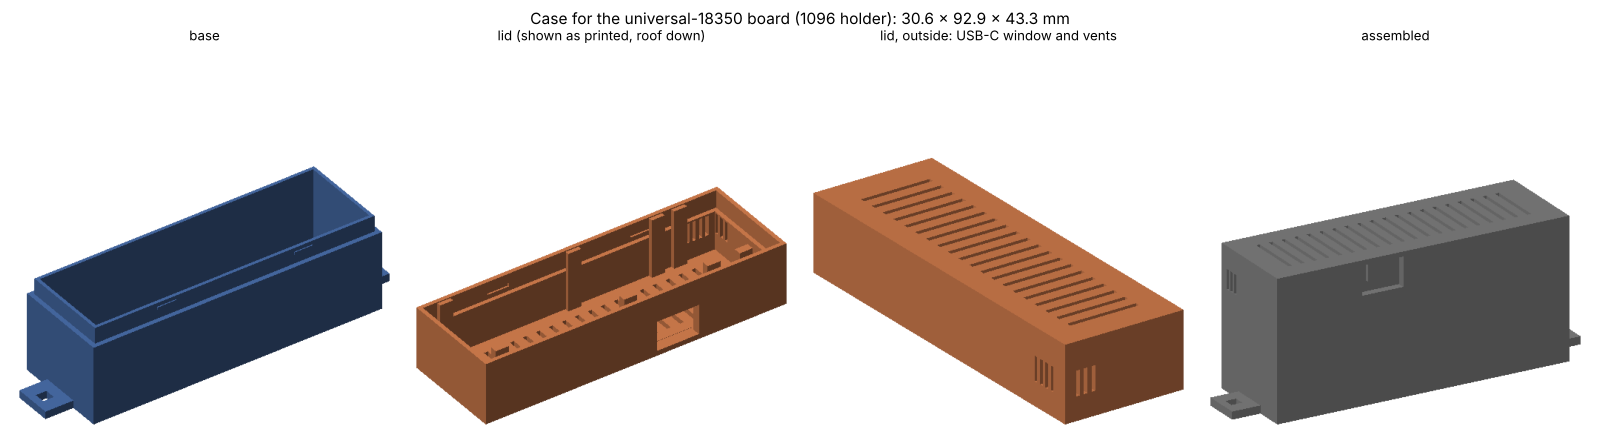
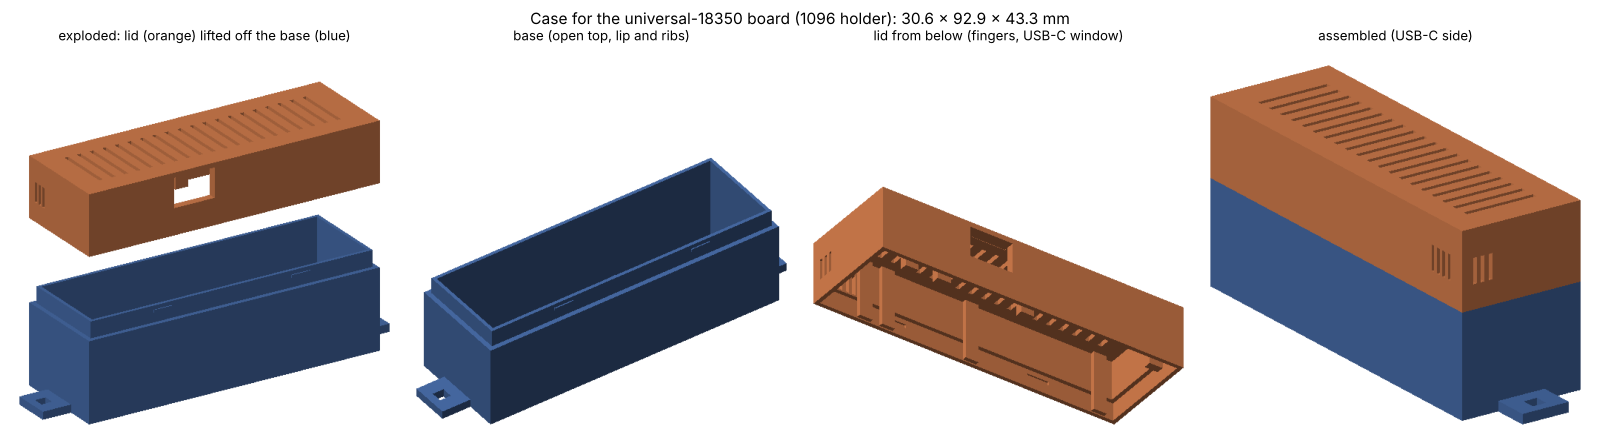
Case images: all four cases with the lid lifted off the base
cases-overview.png shows the 18350, 18650, 21700 and universal cases at
one scale, each with the lid above its base and a gap between them.
Per-case previews now open with an exploded view (lid above base), then
the base, the lid from below and the assembled case, in two colours.

Claude-Session: https://claude.ai/code/session_01XYnVL1FYSQQSzAWwnejohZ

diff --git a/tools/make_case.py b/tools/make_case.py
@@ -346,27 +346,31 @@ def check(base, lid, info):
 
 
 # ---------------------------------------------------------------- previews
-def raster(tris, size=520, elev=28, azim=-55, color=(0.30, 0.45, 0.70)):
-    """Tiny z-buffer renderer: orthographic view, flat shading. Returns an RGB array."""
-    T = np.array(tris, dtype=float)
+def raster(groups, size=520, elev=28, azim=-55, scale=None, height=None):
+    """Tiny z-buffer renderer: orthographic view, flat shading. groups = [(tris, rgb), ...]."""
+    T = np.concatenate([np.array(t, dtype=float) for t, _ in groups])
+    tcol = np.concatenate([np.tile(np.array(c, dtype=float), (len(t), 1)) for t, c in groups])
     a, e = math.radians(azim), math.radians(elev)
     Rz = np.array([[math.cos(a), -math.sin(a), 0], [math.sin(a), math.cos(a), 0], [0, 0, 1]])
     Rx = np.array([[1, 0, 0], [0, math.cos(e - math.pi / 2), -math.sin(e - math.pi / 2)],
                    [0, math.sin(e - math.pi / 2), math.cos(e - math.pi / 2)]])
     V = T.reshape(-1, 3) @ Rz.T @ Rx.T
-    mn, mx = V.min(0), V.max(0); sc = (size - 20) / max(mx[0] - mn[0], mx[1] - mn[1])
-    P = np.empty_like(V); P[:, 0] = (V[:, 0] - mn[0]) * sc + 10; P[:, 1] = size - ((V[:, 1] - mn[1]) * sc + 10); P[:, 2] = V[:, 2]
+    mn, mx = V.min(0), V.max(0)
+    W = size; Hh = height or size
+    sc = scale or (min(W, Hh) - 20) / max(mx[0] - mn[0], mx[1] - mn[1])
+    ox = (W - (mx[0] - mn[0]) * sc) / 2; oy = 10        # centred horizontally, bottom-aligned
+    P = np.empty_like(V); P[:, 0] = (V[:, 0] - mn[0]) * sc + ox; P[:, 1] = Hh - ((V[:, 1] - mn[1]) * sc + oy); P[:, 2] = V[:, 2]
     P = P.reshape(-1, 3, 3)
     N = np.cross(T[:, 1] - T[:, 0], T[:, 2] - T[:, 0]); N /= np.linalg.norm(N, axis=1)[:, None] + 1e-12
     Nv = N @ Rz.T @ Rx.T
     light = np.array([-0.35, 0.45, 0.82]); light /= np.linalg.norm(light)
     shade = np.clip(Nv @ light, 0, 1) * 0.7 + 0.3
-    img = np.ones((size, size, 3)); zb = np.full((size, size), -1e9)
+    img = np.ones((Hh, W, 3)); zb = np.full((Hh, W), -1e9)
     for t, (p0, p1, p2) in enumerate(P):
         if Nv[t, 2] <= 0:      # back-face culling
             continue
-        x0, x1 = int(max(min(p0[0], p1[0], p2[0]), 0)), int(min(max(p0[0], p1[0], p2[0]) + 1, size))
-        y0, y1 = int(max(min(p0[1], p1[1], p2[1]), 0)), int(min(max(p0[1], p1[1], p2[1]) + 1, size))
+        x0, x1 = int(max(min(p0[0], p1[0], p2[0]), 0)), int(min(max(p0[0], p1[0], p2[0]) + 1, W))
+        y0, y1 = int(max(min(p0[1], p1[1], p2[1]), 0)), int(min(max(p0[1], p1[1], p2[1]) + 1, Hh))
         if x1 <= x0 or y1 <= y0:
             continue
         xs, ys = np.meshgrid(np.arange(x0, x1) + 0.5, np.arange(y0, y1) + 0.5)
@@ -380,7 +384,7 @@ def raster(tris, size=520, elev=28, azim=-55, color=(0.30, 0.45, 0.70)):
         z = w0 * p0[2] + w1 * p1[2] + w2 * p2[2]
         sub = zb[y0:y1, x0:x1]; m &= z > sub
         sub[m] = z[m]
-        img[y0:y1, x0:x1][m] = np.array(color) * shade[t]
+        img[y0:y1, x0:x1][m] = tcol[t] * shade[t]
     return img
 
 
@@ -424,8 +428,9 @@ def render(path, parts, title):
     import matplotlib; matplotlib.use('Agg')
     import matplotlib.pyplot as plt
     fig, axs = plt.subplots(1, len(parts), figsize=(5 * len(parts), 5.6))
-    for ax, (label, tris, col, view) in zip(axs, parts):
-        ax.imshow(raster(tris, color=matplotlib.colors.to_rgb(col), **view)); ax.axis('off'); ax.set_title(label, fontsize=12)
+    for ax, (label, groups, view) in zip(axs, parts):
+        g = [(t, matplotlib.colors.to_rgb(c)) for t, c in groups]
+        ax.imshow(raster(g, **view)); ax.axis('off'); ax.set_title(label, fontsize=12)
     fig.suptitle(title, fontsize=14); plt.tight_layout(); plt.savefig(path, dpi=80); plt.close(fig)
 
 
@@ -450,6 +455,7 @@ def main():
     os.makedirs(os.path.join(ROOT, 'case', 'stl'), exist_ok=True)
     os.makedirs(os.path.join(ROOT, 'case', 'images'), exist_ok=True)
     report = []
+    overview = []
     lids_done = {}
     for name, board, holder in CASES:
         base, lid, info = build(name, board, holder)
@@ -467,21 +473,55 @@ def main():
             lids_done[lid_name] = True
         # preview: base, lid as printed, assembled
         asm_b = to_case_frame(bt, info); asm_l = to_case_frame(lt, info)
+        lift = 25.0
+        exploded_lid = [tuple((x, y, z + lift) for (x, y, z) in t) for t in asm_l]
+        B, L = '#4c72b0', '#dd8452'
         render(os.path.join(ROOT, 'case', 'images', 'case-%s.png' % name),
-               [('base', bstl, '#4c72b0', dict(elev=35, azim=-55)),
-                ('lid (shown as printed, roof down)', lstl, '#dd8452', dict(elev=35, azim=-55)),
-                ('lid, outside: USB-C window and vents', asm_l, '#dd8452', dict(elev=25, azim=35)),
-                ('assembled', asm_b + asm_l, '#8c8c8c', dict(elev=22, azim=-60))],
+               [('exploded: lid (orange) lifted off the base (blue)', [(asm_b, B), (exploded_lid, L)], dict(elev=24, azim=-58)),
+                ('base (open top, lip and ribs)', [(asm_b, B)], dict(elev=38, azim=-55)),
+                ('lid from below (fingers, USB-C window)', [(asm_l, L)], dict(elev=-35, azim=-55)),
+                ('assembled (USB-C side)', [(asm_b, B), (asm_l, L)], dict(elev=22, azim=35))],
                'Case for the %s board (%s holder): %.1f x %.1f x %.1f mm' % (name, holder, *size))
         section_png(os.path.join(ROOT, 'case', 'images', 'case-%s-section.png' % name), base, lid, info,
                     'Case for the %s board: sections (blue = base, orange = lid)' % name)
         vol = lambda T: sum(np.dot(a, np.cross(b, c)) for a, b, c in T) / 6.0
         info['volumes'] = (vol(bstl), vol(lstl))
         report.append((name, holder, size, len(bt), len(lt), okb and okl, problems, info))
+        if name in ('18350', '18650', '21700', 'universal-21700'):
+            overview.append((name, holder, size, asm_b, exploded_lid))
         print('%-16s %-5s outer %.1f x %.1f x %.1f mm  tris base %d lid %d  watertight %s  vol %.1f/%.1f cm3  fingers %d  interference: %s'
               % (name, holder, *size, len(bt), len(lt), okb and okl, info['volumes'][0] / 1000, info['volumes'][1] / 1000,
                  len(info['fingers']), problems or 'none'))
+    overview_png(os.path.join(ROOT, 'case', 'images', 'cases-overview.png'), overview)
     return report
+
+
+def overview_png(path, items):
+    """All four cases side by side, each with the lid lifted off its base, at one common scale."""
+    import matplotlib; matplotlib.use('Agg')
+    import matplotlib.pyplot as plt
+    view = dict(elev=20, azim=-60)
+    # common scale: fit the largest exploded model into the panel
+    W, Hh = 520, 470
+    a, e = math.radians(view['azim']), math.radians(view['elev'])
+    Rz = np.array([[math.cos(a), -math.sin(a), 0], [math.sin(a), math.cos(a), 0], [0, 0, 1]])
+    Rx = np.array([[1, 0, 0], [0, math.cos(e - math.pi / 2), -math.sin(e - math.pi / 2)],
+                   [0, math.sin(e - math.pi / 2), math.cos(e - math.pi / 2)]])
+    ext = []
+    for _, _, _, b, l in items:
+        V = np.array(b + l, dtype=float).reshape(-1, 3) @ Rz.T @ Rx.T
+        ext.append(V.max(0) - V.min(0))
+    sc = min((W - 30) / max(x[0] for x in ext), (Hh - 30) / max(x[1] for x in ext))
+    fig, axs = plt.subplots(1, len(items), figsize=(4.2 * len(items), 5.4))
+    B, L = matplotlib.colors.to_rgb('#4c72b0'), matplotlib.colors.to_rgb('#dd8452')
+    for ax, (name, holder, size, b, l) in zip(axs, items):
+        ax.imshow(raster([(b, B), (l, L)], size=W, height=Hh, scale=sc, **view)); ax.axis('off')
+        title = 'Universal board' if name.startswith('universal') else '%s board' % name
+        sub = ('lid + base for the %s holder\n(18350/18650 bases share this lid)' % HOLDERS[holder]['cell']
+               if name.startswith('universal') else '%s holder, %s cell' % (holder, HOLDERS[holder]['cell']))
+        ax.set_title('%s\n%s\n%.1f x %.1f x %.1f mm' % (title, sub, *size), fontsize=11)
+    fig.suptitle('3D-printable cases: lid (orange) lifted off the base (blue)', fontsize=15, y=0.99)
+    plt.tight_layout(rect=(0, 0, 1, 0.93)); plt.savefig(path, dpi=80); plt.close(fig)
 
 
 if __name__ == '__main__':

diff --git a/README.md b/README.md
@@ -133,7 +133,9 @@ A two-part case (base + lid) for every board, in [`case/stl/`](case/stl). Detail
 | 21700 | [`case-21700-base.stl`](case/stl/case-21700-base.stl) + [`case-21700-lid.stl`](case/stl/case-21700-lid.stl) |
 | Universal | the base for the holder you fitted ([`18350`](case/stl/case-universal-18350-base.stl), [`18650`](case/stl/case-universal-18650-base.stl) or [`21700`](case/stl/case-universal-21700-base.stl)) + [`case-universal-lid.stl`](case/stl/case-universal-lid.stl) |
 
-![18650 case](case/images/case-18650.png)
+![All four cases, lid lifted off the base](case/images/cases-overview.png)
+
+More views of each case (exploded, base, lid from below, assembled) and cut-away fit checks are in [`case/images/`](case/images).
 
 - **Base:** the board drops in battery-side down and rests on ribs under the holder's end walls.
 - **Lid:** clicks onto a lip on the base; small fingers stop just above the board's edges so it can't move.

diff --git a/case/README.md b/case/README.md
@@ -13,6 +13,10 @@ A two-part case (base + lid) for every board size. The STL files in `stl/` are g
 
 The three universal bases share one lid; only the ribs and depth under the battery differ. The sizes include the wall-mount tabs on the base ends (9 mm each way).
 
+![All four cases, lid lifted off the base](images/cases-overview.png)
+
+Each case has its own preview, `images/case-<board>.png` (exploded, base, lid from below, assembled), and a cut-away fit check, `images/case-<board>-section.png`. The 18650 ones are shown below.
+
 ![18650 case](images/case-18650.png)
 ![18650 case sections](images/case-18650-section.png)
 
